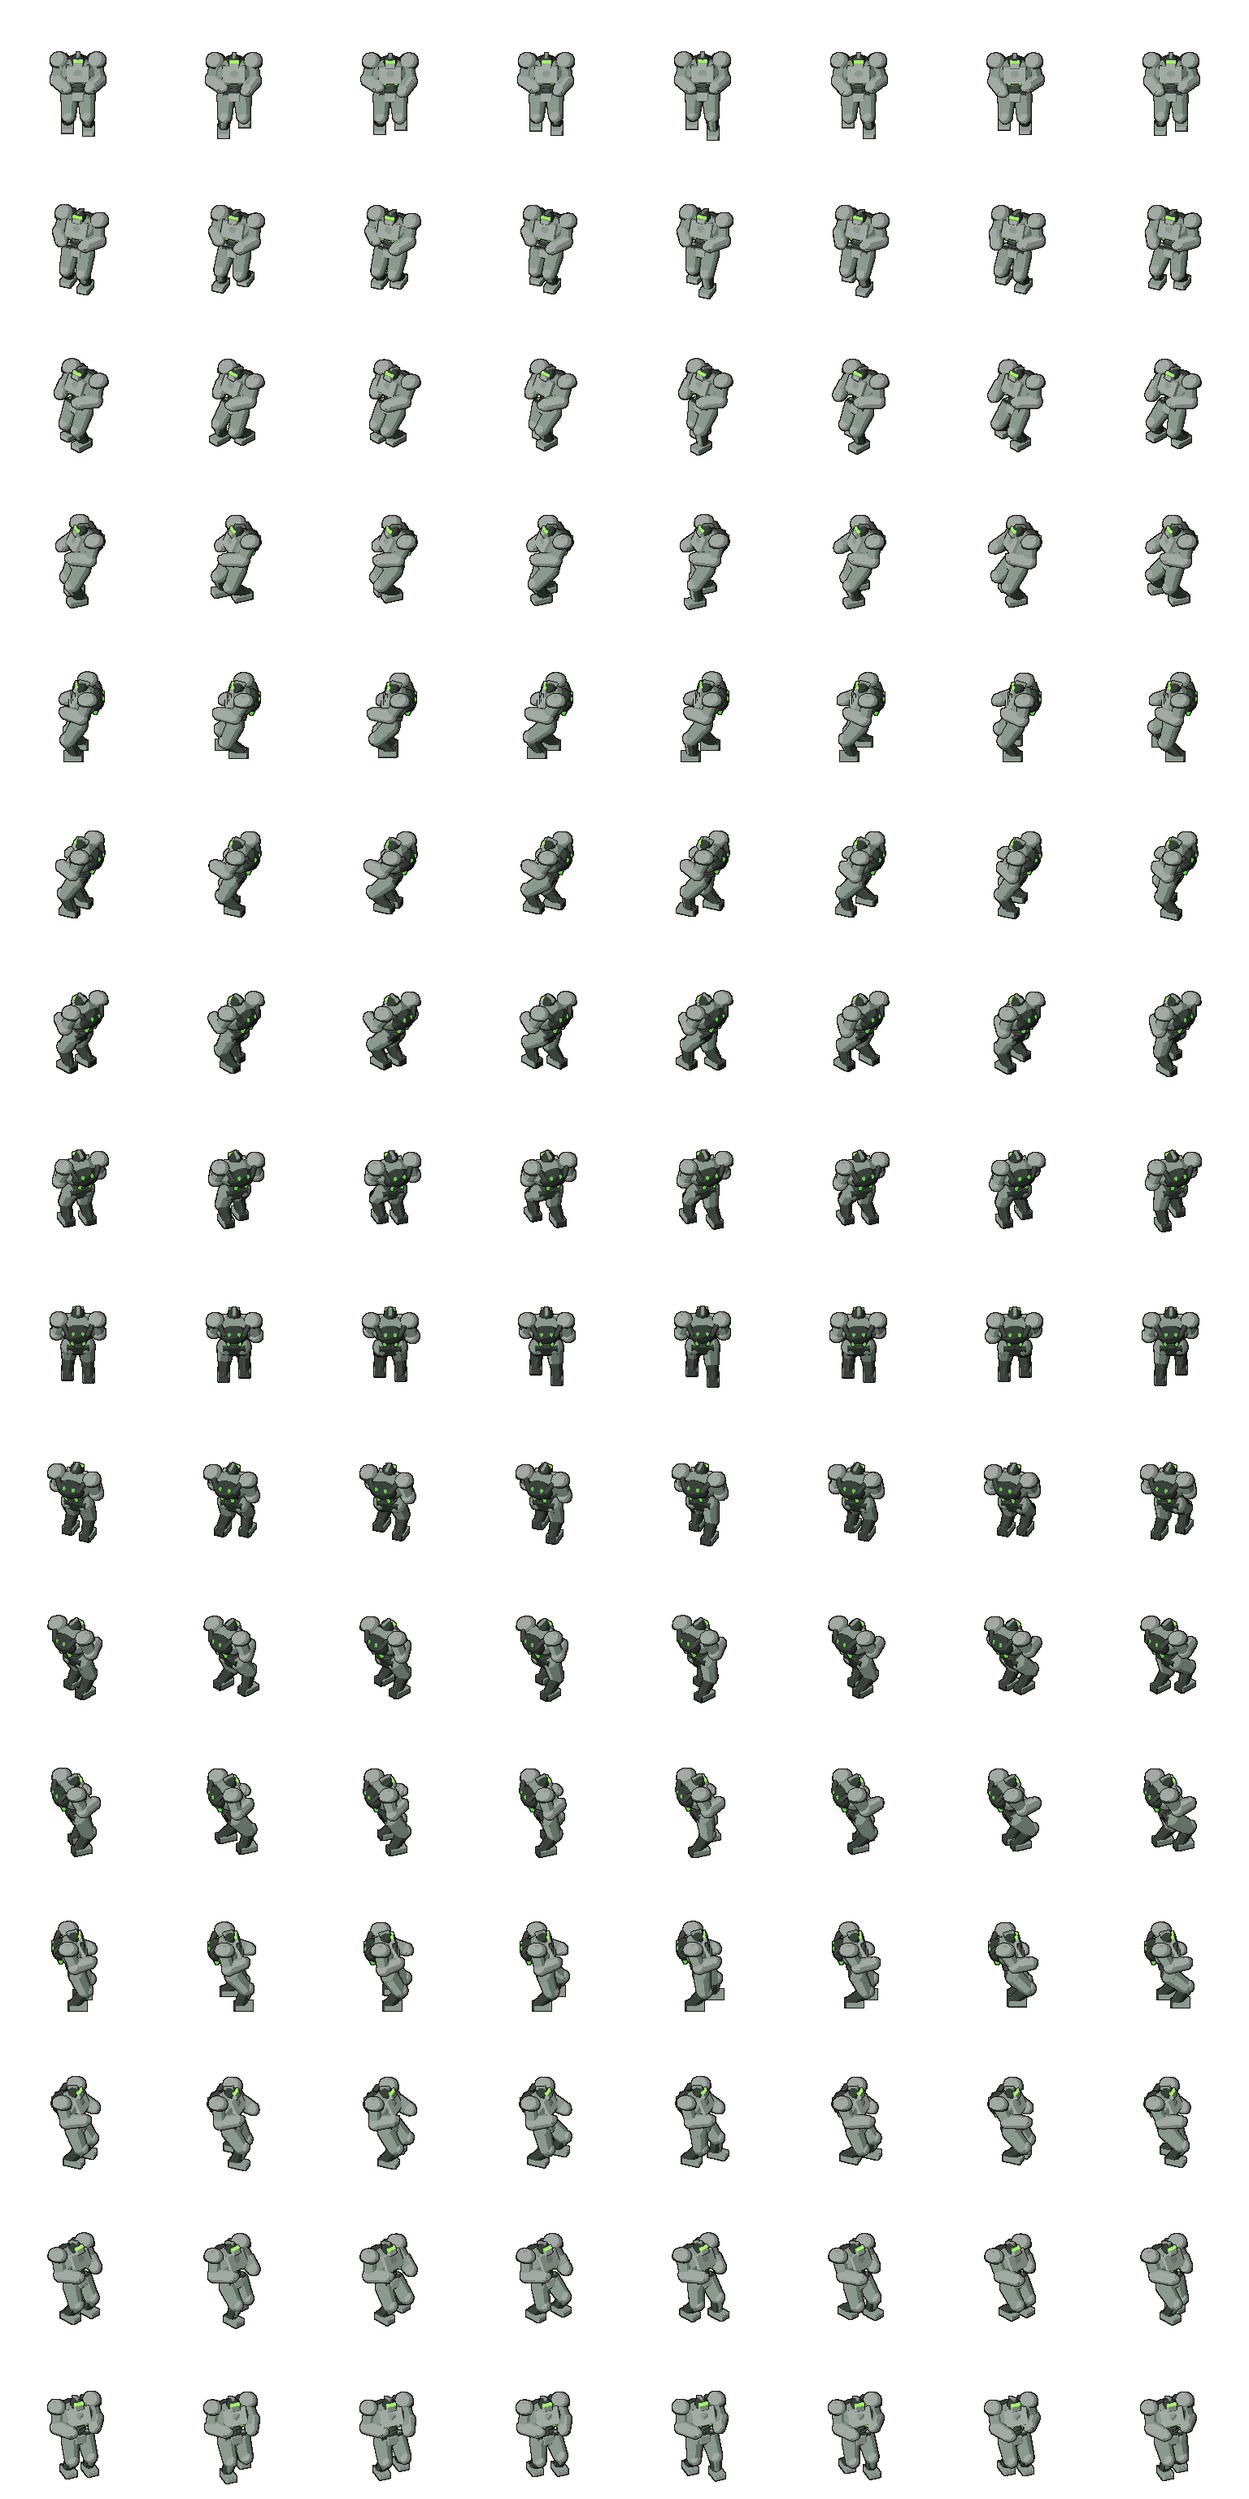
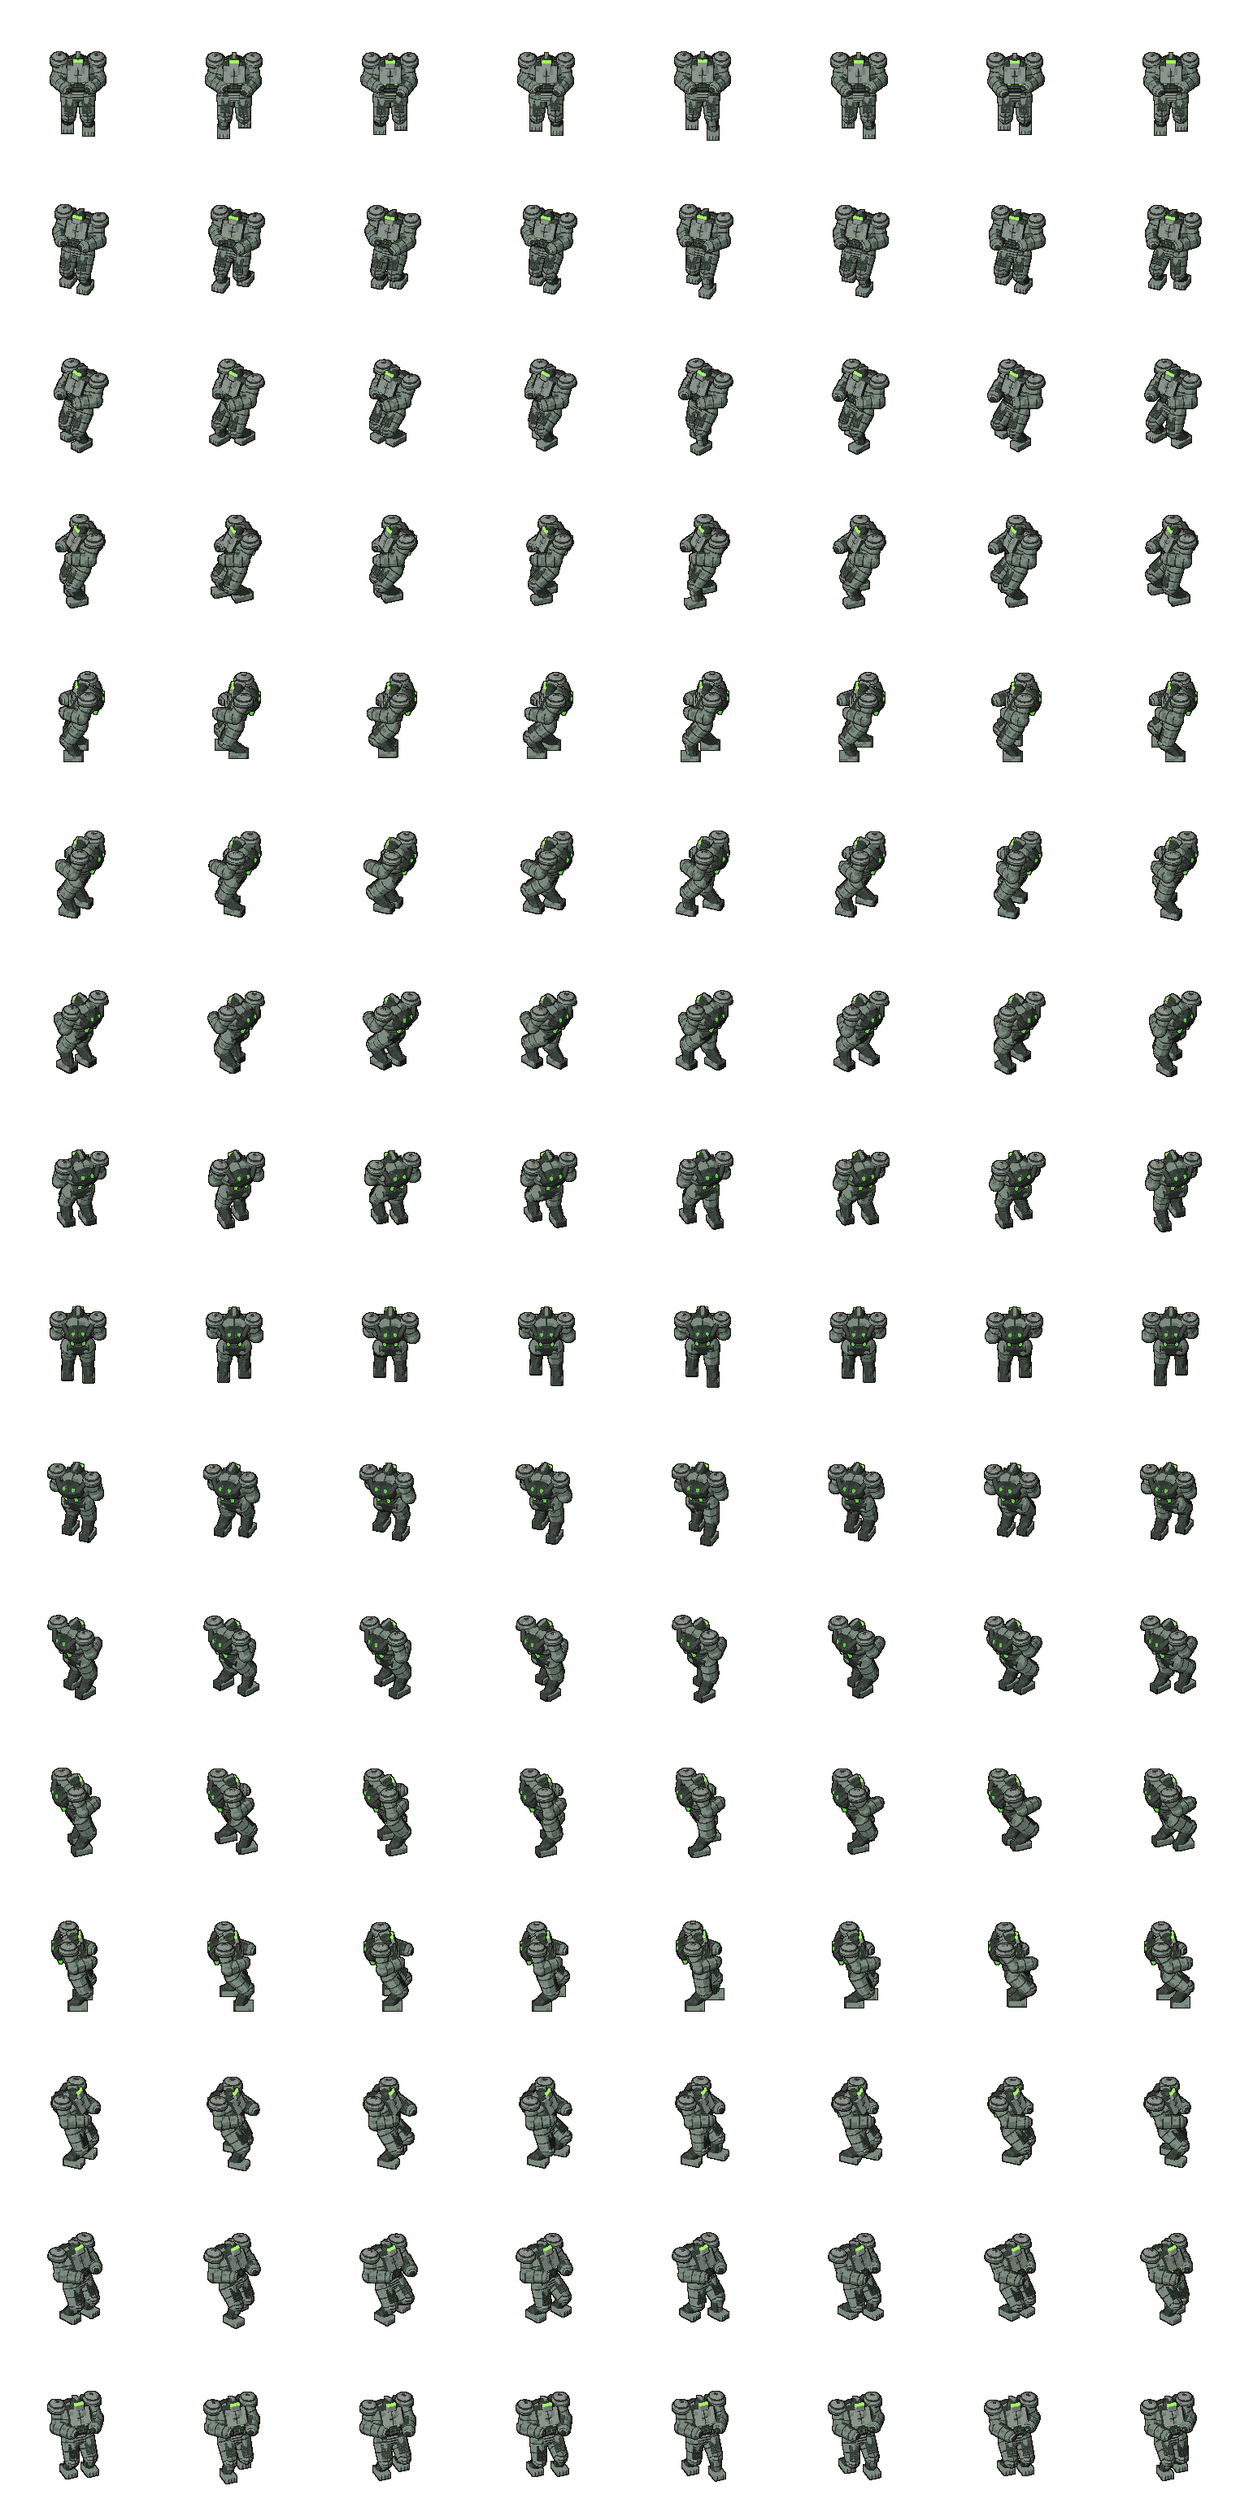
Juggernaut plating: panel seams, rivets, worn plate and dark armour break up the pale alloy
plating() works in each part's own frame so the detail rides with the pose.
Dark chitin thigh slabs, gauntlet plates, belly lames and a gorget; the pale
steel highlight a step down and kept to the pauldrons and breastplate.

diff --git a/tools/sprites/render_juggernaut.py b/tools/sprites/render_juggernaut.py
@@ -53,13 +53,19 @@ CONTACT_Y = 0.82
 WRECK_CONTACT_Y = 0.62
 
 BORG_MATS = {
-    "alloy": ((64, 76, 68), (98, 112, 102), (138, 154, 142)),  # cold grey-green alloy
+    "alloy": ((60, 72, 64), (92, 106, 96), (124, 140, 128)),  # cold grey-green alloy, a step under the Drone's
     "chitin": ((20, 24, 22), (36, 42, 38), (58, 66, 60)),  # dark chitin plates
     "cable": ((30, 32, 32), (48, 52, 50), (70, 76, 72)),  # exposed cabling
-    "gplate": ((84, 92, 88), (122, 130, 124), (162, 170, 164)),  # pale steel edge
+    "gplate": ((76, 84, 80), (110, 118, 112), (140, 148, 142)),  # pale steel edge
     "optic": (160, 255, 96),  # green optic
     "conduit": (96, 204, 72),  # lit conduits on the back and the hammer head
     "dead_glow": ((32, 44, 32), (46, 62, 44), (62, 82, 58)),  # dark conduit on the wreck
+    # Surface detail (see `plating`): panel seams, rivet heads, scuffed and grimed plate.
+    "seam": ((22, 26, 24), (34, 40, 36), (48, 56, 50)),
+    "bolt": ((44, 50, 46), (76, 84, 78), (112, 120, 114)),
+    "alloy_worn": ((48, 58, 52), (74, 86, 78), (100, 114, 104)),
+    "gplate_worn": ((62, 70, 66), (90, 98, 92), (116, 124, 118)),
+    "chitin_worn": ((30, 34, 30), (50, 56, 50), (74, 82, 74)),
 }
 for _name, _spec in BORG_MATS.items():
     R.MATERIALS[_name] = _spec
@@ -114,6 +120,70 @@ def sag(phi: float) -> np.ndarray:
     return np.array([math.cos(phi), 0.0, math.sin(phi)])
 
 
+# ---------------------------------------------------------------- surface detail
+
+WORN = {"alloy": "alloy_worn", "gplate": "gplate_worn", "chitin": "chitin_worn"}
+
+
+def _hash01(q: np.ndarray, salt: int) -> np.ndarray:
+    """Stable per-cell noise in [0, 1) for integer cells `q` (n, 3)."""
+    q = q.astype(np.int64)
+    h = (q[:, 0] * 73856093) ^ (q[:, 1] * 19349663) ^ (q[:, 2] * 83492791) ^ (salt * 2654435761)
+    h = (h ^ (h >> 13)) * 1274126177
+    return ((h ^ (h >> 16)) & 0xFFFF) / 65536.0
+
+
+def plating(base: str, origin, rot=None, step=(6.0, 6.0, 6.0), seam: float = 0.45, wear: float = 0.18,
+            bolts: bool = True, salt: int = 0):
+    """Material for one part: `base` cut into panels by seams every `step` along its own axes
+    (None skips an axis), rivets beside the seams, and blotches of scuffed plate. Worked out in
+    the part's frame (`origin`, `rot` as passed to the primitive), so it rides with the pose."""
+    origin = np.asarray(origin, float)
+    rot = np.eye(3) if rot is None else np.asarray(rot, float)
+    worn = WORN.get(base, base)
+
+    def mat(p: np.ndarray) -> np.ndarray:
+        q = (p - origin) @ rot
+        names = np.full(len(p), base, dtype=object)
+        names[_hash01(np.floor(q / 2.6), salt) < wear] = worn
+        on_seam = np.zeros(len(p), bool)
+        near = np.full(len(p), np.inf)
+        for ax, s in enumerate(step):
+            if not s:
+                continue
+            f = (q[:, ax] / s) % 1.0
+            d = np.minimum(f, 1.0 - f) * s
+            on_seam |= d < seam
+            near = np.minimum(near, d)
+        if bolts:
+            # A rivet row just off each seam, one every couple of units along the other axes.
+            pitch = _hash01(np.floor(q / 2.4), salt + 3) < 0.35
+            ring = (near > seam + 0.35) & (near < seam + 0.85)
+            dots = np.zeros(len(p), bool)
+            for ax, s in enumerate(step):
+                if s:
+                    f = (q[:, ax] / 2.4) % 1.0
+                    dots |= np.minimum(f, 1.0 - f) < 0.16
+            names[ring & dots & pitch] = "bolt"
+        names[on_seam] = "seam"
+        return names
+
+    return mat
+
+
+def limb_frame(a, b) -> np.ndarray:
+    """Rotation whose columns are the a→b axis and two normals: a capsule's own frame."""
+    d = np.asarray(b, float) - np.asarray(a, float)
+    d = d / max(1e-6, np.linalg.norm(d))
+    u, v = R._frame(d)
+    return np.stack([d, u, v], axis=1)
+
+
+def limb_plating(base: str, a, b, band: float, **kw):
+    """Plating for a capsule a→b: hoops every `band` along it and one seam down its length."""
+    return plating(base, a, limb_frame(a, b), step=(band, None, kw.pop("split", None)), **kw)
+
+
 # ---------------------------------------------------------------- parts
 
 
@@ -122,14 +192,23 @@ def leg(c: Cloud, hip, foot) -> None:
     foot = np.asarray(foot, float)
     ankle = foot + np.array([0, 0, 3.6])
     knee = two_bone(hip, ankle, THIGH, SHIN, (1, 0, 0))
-    capsule(c, hip, knee, 6.2, 5.0, "alloy")
-    ellipsoid(c, knee + np.array([2.2, 0, 0.4]), (3.8, 4.0, 4.2), "gplate")
-    capsule(c, knee, ankle, 4.2, 3.4, "chitin")
-    capsule(c, knee + np.array([1.4, 0, -2.0]), ankle + np.array([1.8, 0, 2.4]), 3.0, 2.4, "alloy")
+    capsule(c, hip, knee, 6.2, 5.0, limb_plating("alloy", hip, knee, 7.5, salt=11))
+    # Armour slab down the front of the thigh.
+    d = (knee - hip) / np.linalg.norm(knee - hip)
+    side = np.cross(d, [1.0, 0, 0])
+    side = side / max(1e-6, np.linalg.norm(side))
+    fwd = np.cross(side, d)
+    slab = np.stack([d, side, fwd], axis=1)
+    mid = hip + (knee - hip) * 0.5 + fwd * 4.8
+    box(c, mid, (5.4, 3.4, 0.9), plating("chitin", mid, slab, step=(5.4, 40.0, None), salt=12), rot=slab)
+    ellipsoid(c, knee + np.array([2.2, 0, 0.4]), (3.8, 4.0, 4.2), plating("gplate", knee, step=(None, 40.0, 2.6), salt=13))
+    capsule(c, knee, ankle, 4.2, 3.4, limb_plating("chitin", knee, ankle, 6.8, bolts=False, salt=14))
+    s0, s1 = knee + np.array([1.4, 0, -2.0]), ankle + np.array([1.8, 0, 2.4])
+    capsule(c, s0, s1, 3.0, 2.4, limb_plating("alloy", s0, s1, 5.5, salt=15))
     capsule(c, knee + np.array([-3.2, 0, -1.0]), ankle + np.array([-3.0, 0, 1.4]), 1.0, mat="cable")
     ellipsoid(c, ankle, (3.0, 3.2, 2.6), "chitin")
-    box(c, foot + np.array([2.2, 0, 1.9]), (6.2, 4.0, 1.9), "alloy")
-    box(c, foot + np.array([7.0, 0, 1.5]), (1.6, 3.8, 1.5), "gplate")
+    box(c, foot + np.array([2.2, 0, 1.9]), (6.2, 4.0, 1.9), plating("alloy", foot, step=(None, None, None), salt=16))
+    box(c, foot + np.array([7.0, 0, 1.5]), (1.6, 3.8, 1.5), plating("gplate", foot, step=(None, 2.6, None), bolts=False, salt=17))
     box(c, foot + np.array([-3.8, 0, 2.0]), (1.4, 3.4, 2.0), "chitin")
 
 
@@ -138,16 +217,23 @@ def torso(c: Cloud, hz: float, lean: float = 0.0) -> dict[str, np.ndarray]:
     piv = np.array([0.0, 0.0, hz])
     Rm = rot_y(-lean)  # positive lean tips the chest forward (+x, down)
     P = lambda *v: piv + Rm @ np.array(v, float)  # noqa: E731
-    box(c, P(-0.6, 0, 1.6), (5.6, 8.4, 3.6), "chitin", rot=Rm)  # pelvis
-    box(c, P(4.6, 0, 1.0), (1.2, 4.0, 3.0), "gplate", rot=Rm)  # codpiece plate
+    box(c, P(-0.6, 0, 1.6), (5.6, 8.4, 3.6), plating("chitin", P(-0.6, 0, 1.6), Rm, step=(None, 8.4, None), salt=21), rot=Rm)  # pelvis
+    box(c, P(4.6, 0, 1.0), (1.2, 4.0, 3.0), plating("gplate", P(4.6, 0, 1.0), Rm, step=(None, None, 2.0), salt=22), rot=Rm)  # codpiece plate
     for i in range(3):
         cylinder(c, P(-0.6, 0, 6.0 + i * 2.6), P(-0.6, 0, 7.6 + i * 2.6), 6.4 - 0.3 * i, "cable")  # ribbed waist
-    ellipsoid(c, P(1.0, 0, 20.0), (9.4, 13.6, 10.4), "alloy", rot=Rm)  # chest
-    box(c, P(8.6, 0, 20.4), (1.6, 8.6, 6.4), "gplate", rot=Rm @ rot_y(-0.15))  # breastplate
+    ellipsoid(c, P(1.0, 0, 20.0), (9.4, 13.6, 10.4), plating("alloy", P(1.0, 0, 20.0), Rm, step=(None, 13.6, 7.0), salt=23), rot=Rm)  # chest
+    bp = Rm @ rot_y(-0.15)
+    box(c, P(8.6, 0, 20.4), (1.6, 8.6, 6.4), plating("gplate", P(8.6, 0, 20.4), bp, step=(None, 8.6, None), salt=24), rot=bp)  # breastplate
+    for i in range(3):  # belly lames under the breastplate, overlapping downward
+        ab = Rm @ rot_y(-0.3)
+        at = P(7.6 - 0.5 * i, 0, 12.6 - 2.5 * i)
+        box(c, at, (1.2, 6.4 - 0.7 * i, 1.1), plating("chitin", at, ab, step=(None, 3.2, None), salt=25 + i), rot=ab)
+    gorget = P(3.4, 0, 27.6)
+    ellipsoid(c, gorget, (6.4, 9.0, 2.2), plating("chitin", gorget, Rm, step=(None, 3.0, None), bolts=False, salt=28), rot=Rm)
     for s in (1, -1):
         box(c, P(9.6, s * 4.4, 16.0), (0.4, 0.9, 3.0), "conduit", rot=Rm)  # chest vents
     # Back: a hump of chitin with lit conduits running down it.
-    ellipsoid(c, P(-7.0, 0, 23.0), (6.0, 10.0, 7.4), "chitin", rot=Rm)
+    ellipsoid(c, P(-7.0, 0, 23.0), (6.0, 10.0, 7.4), plating("chitin", P(-7.0, 0, 23.0), Rm, step=(None, 10.0, 7.4), salt=29), rot=Rm)
     for s in (1, -1):
         capsule(c, P(-11.2, s * 3.6, 28.0), P(-9.6, s * 4.2, 14.0), 0.9, mat="conduit")
         capsule(c, P(-10.0, s * 7.6, 26.0), P(-6.0, s * 10.6, 30.6), 1.4, mat="cable")
@@ -160,7 +246,7 @@ def head(c: Cloud, at, Rm) -> None:
     """Small skull sunk between the shoulders, a green optic band, a jaw plate."""
     at = np.asarray(at, float)
     P = lambda *v: at + Rm @ np.array(v, float)  # noqa: E731
-    ellipsoid(c, at, (4.4, 4.4, 4.6), "chitin", rot=Rm)
+    ellipsoid(c, at, (4.4, 4.4, 4.6), plating("chitin", at, Rm, step=(None, 40.0, 3.0), bolts=False, salt=31), rot=Rm)
     box(c, P(3.4, 0, -2.2), (1.6, 3.2, 1.8), "gplate", rot=Rm)
     box(c, P(4.3, 0, 0.9), (0.6, 3.4, 0.7), "optic", rot=Rm)
     box(c, P(-0.6, 0, 4.2), (3.6, 0.8, 0.9), "alloy", rot=Rm)  # crest
@@ -168,7 +254,8 @@ def head(c: Cloud, at, Rm) -> None:
 
 def pauldron(c: Cloud, at, side: float) -> None:
     at = np.asarray(at, float)
-    ellipsoid(c, at + np.array([0, side * 1.0, 2.6]), (7.0, 6.2, 5.0), "gplate", keep=lambda p, z=at[2]: p[:, 2] >= z + 0.6)
+    ellipsoid(c, at + np.array([0, side * 1.0, 2.6]), (7.0, 6.2, 5.0), plating("gplate", at, step=(None, None, 2.6), bolts=False, salt=41),
+              keep=lambda p, z=at[2]: p[:, 2] >= z + 0.6)  # stacked lames
     ellipsoid(c, at + np.array([0, side * 1.4, 4.0]), (5.0, 4.4, 3.6), "metal", keep=lambda p, z=at[2]: p[:, 2] >= z + 4.6)  # team tint
     ellipsoid(c, at + np.array([0, side * 2.2, 1.0]), (7.2, 5.0, 0.8), "chitin")
 
@@ -179,14 +266,16 @@ def arm(c: Cloud, shoulder, hand, side: float, pole=(-0.6, 0.0, -1.0), fist: boo
     p = np.asarray(pole, float) + np.array([0, side * 0.7, 0])
     elbow = two_bone(shoulder, hand, UPPER, FORE, p)
     pauldron(c, shoulder, side)
-    capsule(c, shoulder, elbow, 4.6, 4.0, "alloy")
+    capsule(c, shoulder, elbow, 4.6, 4.0, limb_plating("alloy", shoulder, elbow, 6.8, salt=51))
     ellipsoid(c, elbow, (3.8, 3.8, 3.8), "chitin")
-    capsule(c, elbow, hand, 5.0, 4.4, "gplate")  # heavy forearm
-    capsule(c, elbow + (hand - elbow) * 0.2, elbow + (hand - elbow) * 0.75, 5.3, 5.0, "alloy",
+    capsule(c, elbow, hand, 5.0, 4.4, limb_plating("alloy", elbow, hand, 6.5, salt=52))  # heavy forearm
+    g0, g1 = elbow + (hand - elbow) * 0.2, elbow + (hand - elbow) * 0.75
+    capsule(c, g0, g1, 5.3, 5.0, limb_plating("chitin", g0, g1, 3.6, salt=53),  # dark gauntlet plates
             keep=lambda q, e=elbow, h=hand: ((q - e) @ np.cross(h - e, [0, 0, 1.0])) * side >= -0.5)
     if fist:
-        ellipsoid(c, hand, (4.4, 4.2, 4.0), "chitin")
-        ellipsoid(c, hand + (hand - elbow) / max(1e-6, np.linalg.norm(hand - elbow)) * 2.6, (2.6, 3.6, 3.0), "gplate")
+        ellipsoid(c, hand, (4.4, 4.2, 4.0), plating("chitin", hand, step=(None, 2.4, None), bolts=False, salt=54))
+        k = hand + (hand - elbow) / max(1e-6, np.linalg.norm(hand - elbow)) * 2.6
+        ellipsoid(c, k, (2.6, 3.6, 3.0), limb_plating("gplate", elbow, hand, 1.8, bolts=False, salt=55))  # knuckle ridges
 
 
 def hammer(c: Cloud, grip, axis, glow: bool = True) -> None:
@@ -207,9 +296,9 @@ def hammer(c: Cloud, grip, axis, glow: bool = True) -> None:
         side = np.array([1.0, 0, 0])
     side = side / np.linalg.norm(side)
     head_rot = _along(side)
-    box(c, top, (8.6, 4.8, 5.4), "alloy", rot=head_rot)
+    box(c, top, (8.6, 4.8, 5.4), plating("alloy", top, head_rot, step=(4.3, None, None), salt=61), rot=head_rot)
     for s in (1, -1):
-        box(c, top + side * s * 8.9, (0.8, 5.4, 6.0), "gplate", rot=head_rot)
+        box(c, top + side * s * 8.9, (0.8, 5.4, 6.0), plating("gplate", top, head_rot, step=(None, None, None), salt=62), rot=head_rot)
     for s in (1, -1):
         box(c, top + side * s * 4.0, (0.6, 4.95, 5.55), "conduit" if glow else "dead_glow", rot=head_rot)
     del Rm

diff --git a/narrow-front-sprite-agent-brief.md b/narrow-front-sprite-agent-brief.md
@@ -412,7 +412,7 @@ Human infantry and the Cyborg are the procedural model in Animation. The turntab
 | Thrall | crawl, crawl-fire | 8, 4 | legs torn off: chest on the dirt, dragging on the left fist, the right fist forward; crawl-fire raises the right fist and slams it into the ground ahead (raised / slam / raised / slam), grit at the slam. Prone scale |
 | Thrall | die | 4 | knees buckle, falls forward, nearly flat, face down; frame 3 is the corpse (cyan optic and seams dark). Every frame shares the corpse's footprint centre, so the body does not slide |
 | Thrall | swim | 8 | chest-deep in the shared pool, stood straight so the head and pauldrons stay above water |
-| Juggernaut | walk, swing, fists, punch, throw, wreck | 8, 8, 8, 8, 4, 1 | Borg giant on the Titan's 192 cell with the Cyborg's camera and outline and the Drone's palette (grey-green alloy, chitin, lit green conduits), grey team-tint pauldron caps, one scale (1.6) and contact (0.82) on every sheet (`tools/sprites/render_juggernaut.py`). Walk carries the hammer across the body, head beside the right shoulder. Swing is one blow looped in time with the hits: frame 0 is the hammer on the ground with a green flash, then up, held high, coming down. Fists and punch are the same body without the hammer; the right fist lands on frame 0, the left on frame 4. Throw: wound back, release, empty hands, guard. The wreck (face down, hammer dark beside it) is written by the same script, not `render_wrecks.py` |
+| Juggernaut | walk, swing, fists, punch, throw, wreck | 8, 8, 8, 8, 4, 1 | Borg giant on the Titan's 192 cell with the Cyborg's camera and outline and the Drone's palette (grey-green alloy, chitin, lit green conduits), grey team-tint pauldron caps, one scale (1.6) and contact (0.82) on every sheet (`tools/sprites/render_juggernaut.py`). Surface detail comes from `plating()`: a few panel seams per part, rivet rows beside them, blotches of worn plate, all in the part's own frame so nothing crawls between frames; dark chitin thigh slabs, gauntlet plates, belly lames and a gorget break up the pale alloy, and the pale steel stays on the pauldrons and breastplate. Walk carries the hammer across the body, head beside the right shoulder. Swing is one blow looped in time with the hits: frame 0 is the hammer on the ground with a green flash, then up, held high, coming down. Fists and punch are the same body without the hammer; the right fist lands on frame 0, the left on frame 4. Throw: wound back, release, empty hands, guard. The wreck (face down, hammer dark beside it) is written by the same script, not `render_wrecks.py` |
 | Rifleman | swim | 8 | `infantry-swim.png` (also the fallback) |
 | Other human infantry | swim | 8 | `render_infantry.py`: chest-deep in the same pool, arms paddling |
 
